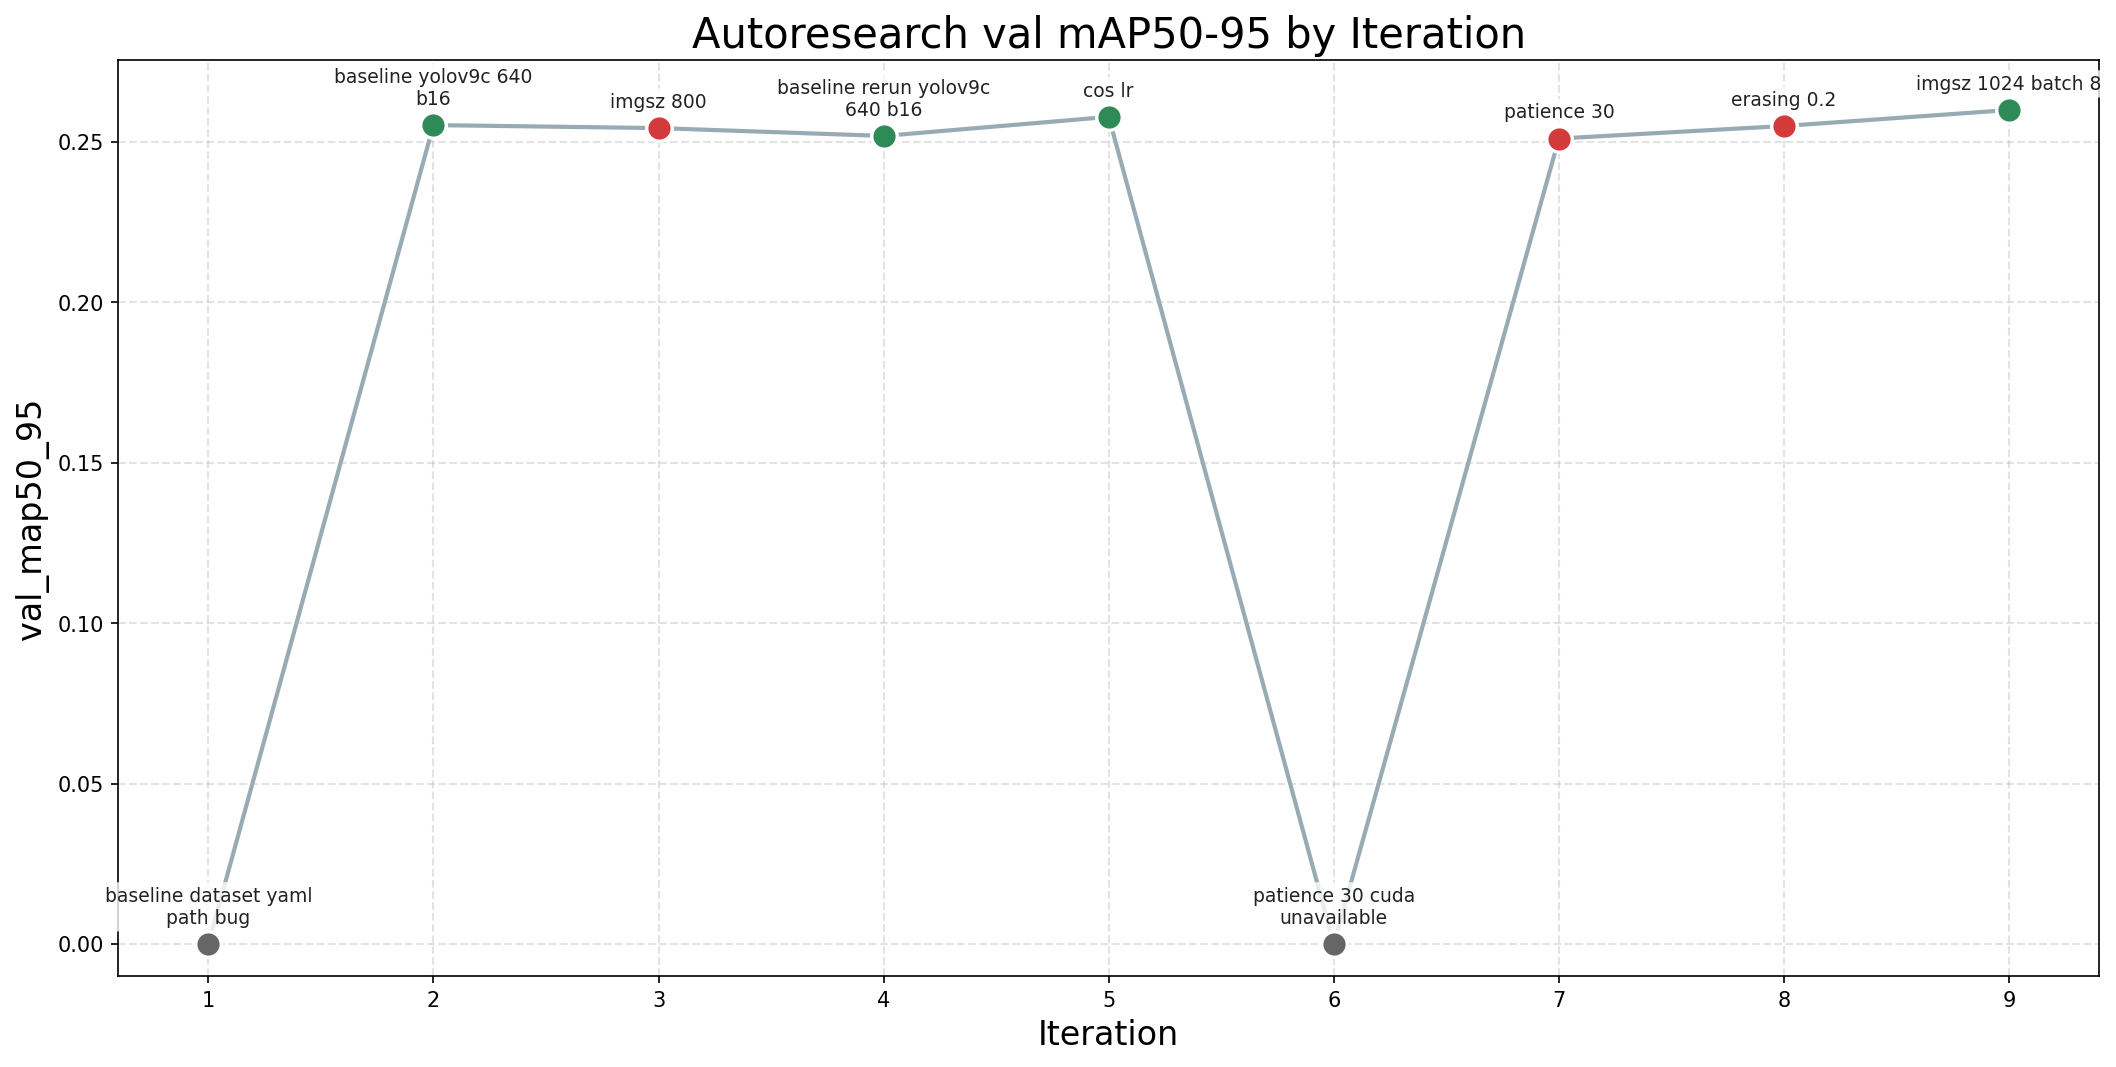
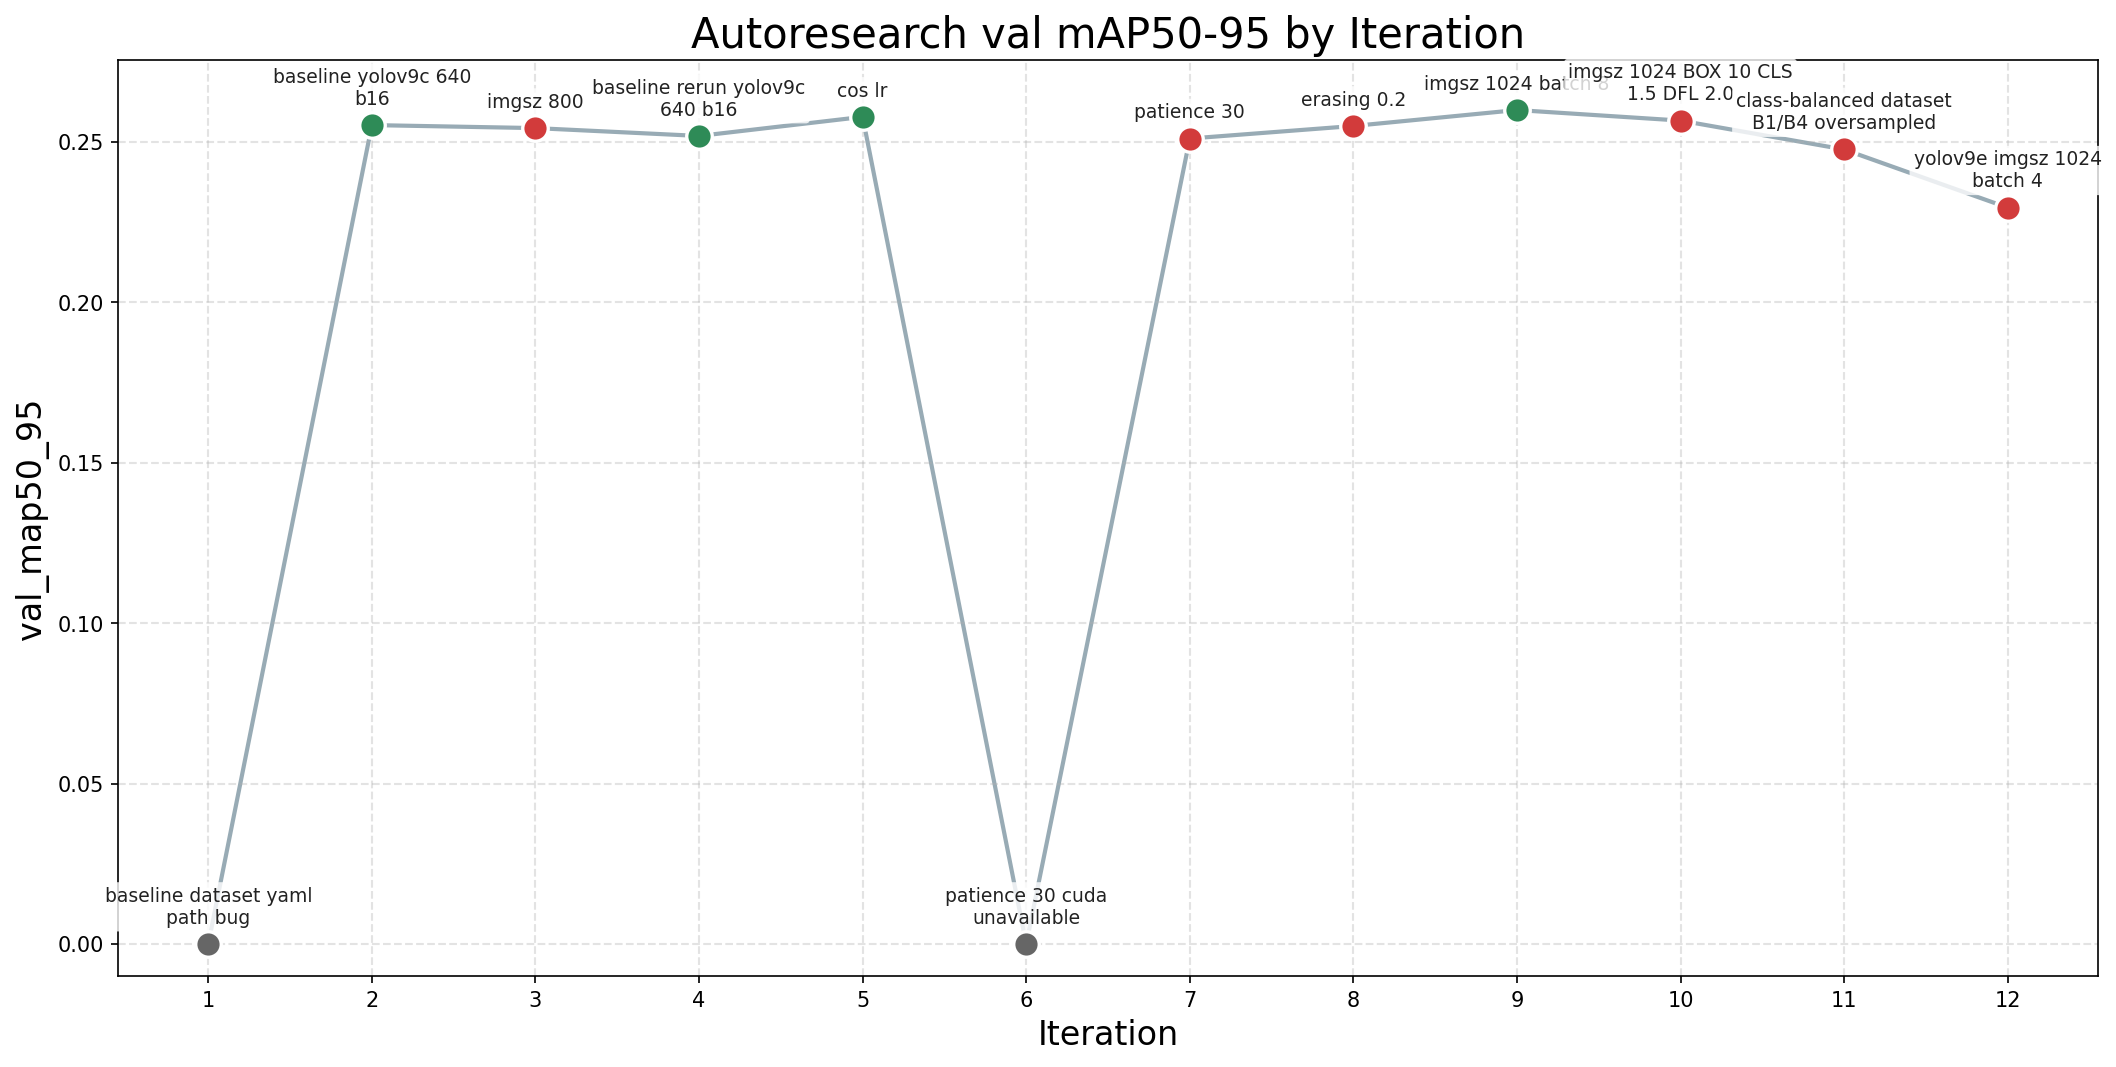
exp: rtdetr-l transformer imgsz 1024 batch 4 + telemetry

diff --git a/train.py b/train.py
@@ -20,7 +20,7 @@ from prepare import (
 )
 
 # ── Model ────────────────────────────────────────────────────────────────────
-MODEL = "yolov9e.pt"
+MODEL = "rtdetr-l.pt"
 
 # ── Time budget ──────────────────────────────────────────────────────────────
 TIME_HOURS = 0.33  # ~20 minutes max per iteration

diff --git a/experiment-journal.md b/experiment-journal.md
@@ -111,6 +111,44 @@
 
 **Falsification**: If YOLOv9e doesn't improve over YOLOv9c, then model capacity is not the bottleneck. The problem is in the data quality/distribution, not model expressiveness.
 
+**Result**: val_map50_95=0.229457 (delta=-0.030423 from best 0.259880) — DISCARD
+
+**Per-class**:
+- B1: mAP50-95=0.391 (worse than YOLOv9c's 0.441)
+- B2: mAP50-95=0.167 (worse)
+- B3: mAP50-95=0.245 (worse)
+- B4: mAP50-95=0.115 (worse)
+
+**Analysis**: YOLOv9e significantly worse than YOLOv9c. Root cause: larger model needs more training time/epochs to converge. In the 20-min time budget, YOLOv9e gets fewer gradient updates than YOLOv9c. The underfitting is evident — all class metrics are worse. This is consistent with YOLOv9e being noted as "weaker" in the project history (though it was tested with different configs). The 20-min budget is too short for a 100M+ parameter model to converge on this data.
+
+**Falsification confirmed**: Model capacity is NOT the bottleneck (at least within this time budget). YOLOv9c's capacity is sufficient; the problem is data quality.
+
+**Key insight from experiments 1-5**:
+- imgsz=1024 helps (+0.002) → resolution matters, objects need to be bigger in image
+- Larger model (YOLOv9e) doesn't help within time budget → not a capacity problem
+- Class-balanced oversampling hurts → adding flipped copies reduces effective diversity
+- Loss weight changes don't help → default weights are well-tuned
+
+**Remaining high-impact ideas to try**:
+1. RT-DETR (transformer architecture for better context/disambiguation)
+2. Model soup/weight averaging (ensemble without inference cost)
+3. Tiled dataset (genuine resolution improvement for small B4 objects)
+4. Lower LR0 with higher LRF (different learning rate schedule)
+
+---
+
+## Experiment 6 — 2026-03-14 (RT-DETR transformer architecture)
+
+**Hypothesis**: If RT-DETR-L is used instead of YOLOv9c, the transformer's self-attention mechanism will improve B2/B3 disambiguation because attention captures global context (whole-image relationships) that CNN-based YOLO misses when deciding between ripeness stages B2 and B3.
+
+**Change**: MODEL=yolov9c.pt→rtdetr-l.pt, BATCH=4, IMGSZ=1024
+
+**Expected success criterion**: B2 mAP50-95 > 0.22 OR val_map50_95 > 0.265
+
+**Falsification**: If RT-DETR doesn't improve B2/B3 disambiguation, then self-attention is not what's needed — the problem is that B2 and B3 look genuinely similar regardless of model architecture, and only better labels or more data can solve it.
+
+
+
 
 
 

diff --git a/program.md b/program.md
@@ -218,6 +218,12 @@ Go back to Step 1. No pause. No confirmation.
 - Two-stage pipeline: marginal in prior work
 - cos_lr: small improvement (current best config)
 - imgsz 1024 batch 8: KEEP — small improvement (current best: 0.25988)
+- Loss weight tuning (BOX=10, CLS=1.5, DFL=2.0) with imgsz=1024: DISCARD — 0.2566, more aggressive loss weighting hurt performance
+- Class-balanced dataset (B1/B4 oversampled 2-3x with geometric flip, 2764→6367 images): DISCARD — 0.2476. Conclusion: oversampling with flips adds noise not signal; within time budget more images = fewer epochs = underfitting; B4's bottleneck is NOT data quantity but resolution/context
+- YOLOv9e imgsz=1024 batch=4: DISCARD — 0.2295. Too large to converge in 20-min budget. Model capacity is NOT the bottleneck.
+- Label noise correction via high-conf model disagreement: NOT VIABLE — model can only flag corrections at conf>=0.5 but at that level it may itself be wrong. At conf>=0.7 there are 0 reliable corrections. Label noise is real but cannot be auto-corrected with current model accuracy.
+
+**KEY INSIGHT FROM EXPERIMENTS 1-5**: The ceiling is a DATA QUALITY problem, not a hyperparameter or model architecture problem. The best single-change improvement was imgsz=1024 (+0.002). All other approaches tried so far have failed or hurt performance.
 
 ### Current best config
 - YOLOv9c, imgsz=1024, batch=8, AdamW, cos_lr=True, erasing=0.4
